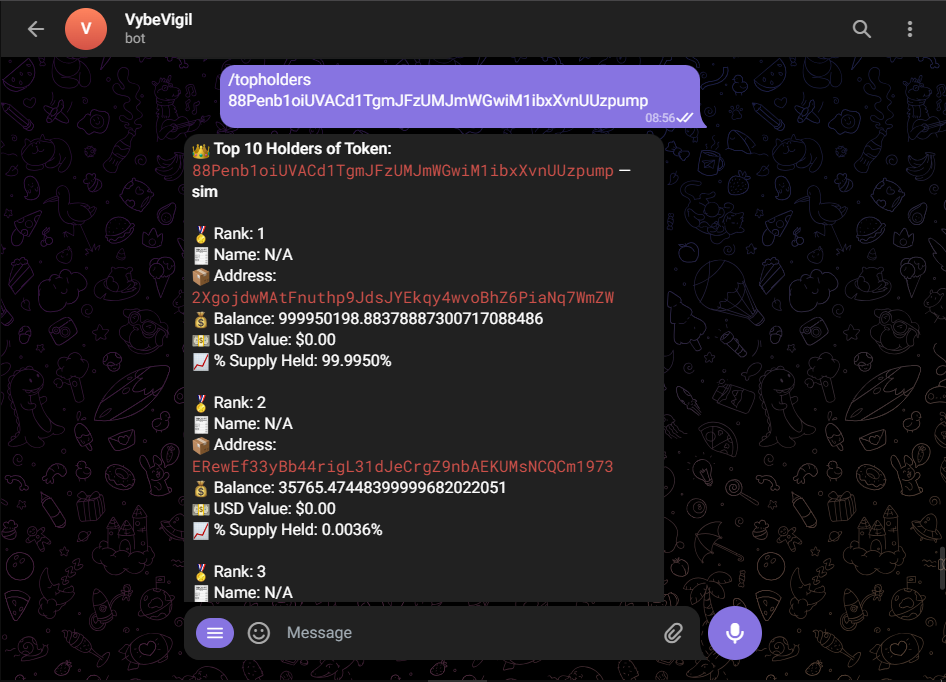
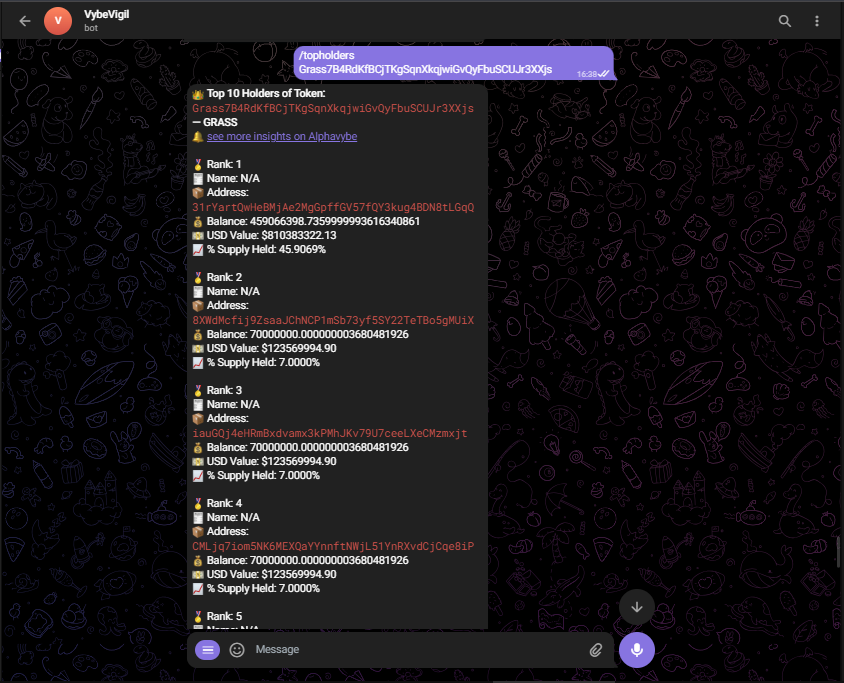
updated readme with screenshots

diff --git a/bot.py b/bot.py
@@ -34,7 +34,7 @@ async def token_details(update: Update, context: ContextTypes.DEFAULT_TYPE):
     
     token_mint = context.args[0]
     token_info = await utils.get_token_details(token_mint)
-    await update.message.reply_text(token_info)
+    await update.message.reply_text(f"[see more insights](https://alpha.vybenetwork.com/tokens/{token_mint}/)\n{token_info}")
 async def get_balance(update: Update, context: ContextTypes.DEFAULT_TYPE):
     wallet_address = context.args[0] if context.args else None
     if not wallet_address:
@@ -146,7 +146,11 @@ async def top_token_holders(update: Update, context: ContextTypes.DEFAULT_TYPE):
 
         # message = f"👑 *Top {count} Holders of Token:* `{mint_address}`\n\n"
         token_symbol = holders[0].get("tokenSymbol", "N/A")
-        message = f"👑 *Top {count} Holders of Token:* `{mint_address}` — *{token_symbol}*\n\n"
+        message = (
+            f"👑 *Top {count} Holders of Token:* `{mint_address}` — *{token_symbol}*\n"
+            f"🔔 [see more insights on Alphavybe](https://alpha.vybenetwork.com/)\n\n"
+        )
+
 
         for holder in holders:
             message += (
@@ -156,7 +160,7 @@ async def top_token_holders(update: Update, context: ContextTypes.DEFAULT_TYPE):
                 f"💰 Balance: {holder.get('balance', 'N/A')}\n"
                 f"💵 USD Value: ${float(holder.get('valueUsd', 0)):.2f}\n"
                 f"📈 % Supply Held: {holder.get('percentageOfSupplyHeld', 0):.4f}%\n\n"
-                f"🔔 [see more insights](https://alpha.vybenetwork.com/)\n\n\n\n"
+                # f"🔔 [see more insights](https://alpha.vybenetwork.com/)\n\n\n\n"
 
             )
 
@@ -187,6 +191,8 @@ async def chart(update: Update, context: ContextTypes.DEFAULT_TYPE):
         token_name = await utils.get_token_name_for_chart(mint_address)
         await update.message.reply_text(f"{token_name}📈 Price Chart:")
         await update.message.reply_photo(photo=chart_image)
+        # [see more insights](https://alpha.vybenetwork.com/)
+        await update.message.reply_text(f"🔔 [see more insights](https://alpha.vybenetwork.com/tokens/{mint_address})\n")
     except aiohttp.ClientResponseError as e:
         await update.message.reply_text(f"Failed to fetch data: {e}")
     except Exception as e:

diff --git a/README.md b/README.md
@@ -65,9 +65,12 @@ python bot.py
 
 ## 📷 Screenshots
 
-| Whale Alerts | Top Holders | chart | Top Holders |
-|--------------|-------------|-------------|
-| ![Whale](imagesforreadme/whales.png) | ![TopHolders](imagesforreadme/topholders.png) |![Chart](imagesforreadme/chart.png)|
+| Whale Alerts | Top Holders |
+|--------------|-------------|
+| ![Whale](imagesforreadme/whales.png) | ![TopHolders](imagesforreadme/topholders.png) |
+| chart | Token Details |
+|--------------|-------------|
+| ![Chart](imagesforreadme/chart.png) | [Token Deets](imagesforreadme/tokdeets.png) |
 
 ## 💡 Innovation Highlights
 
